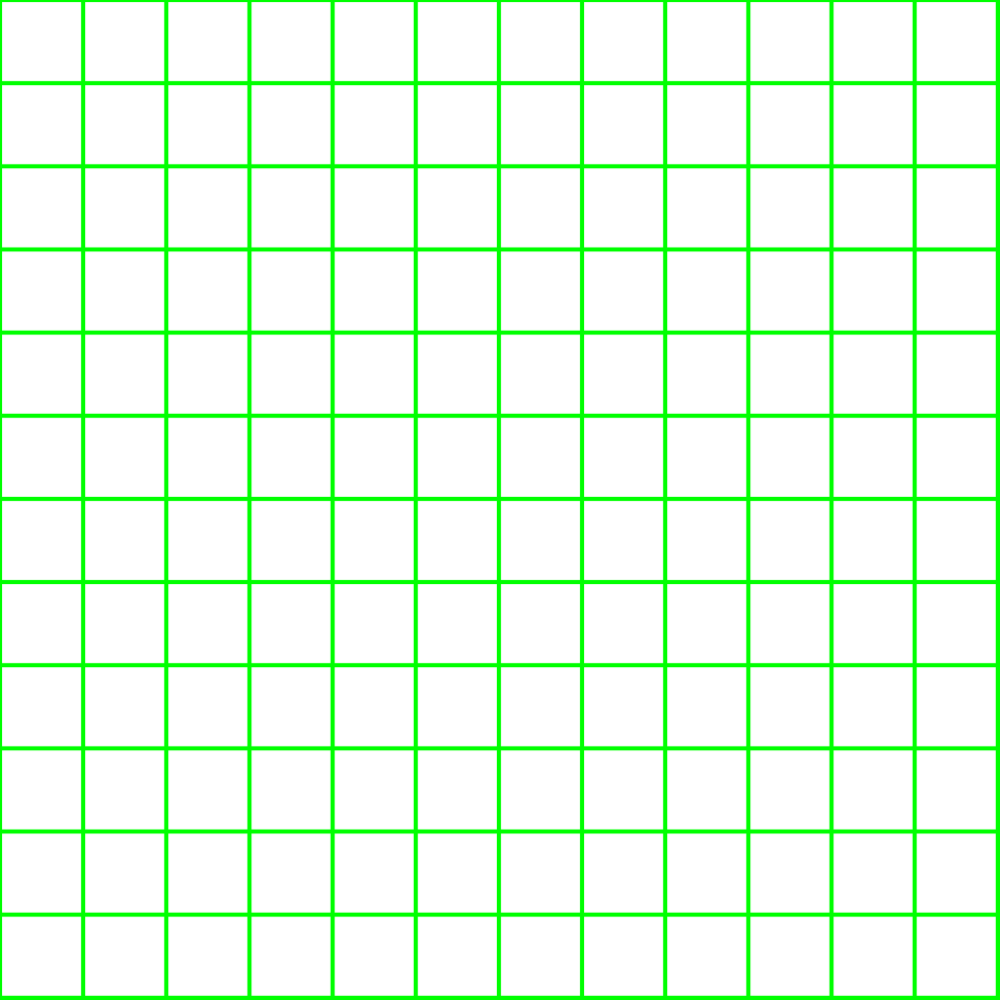
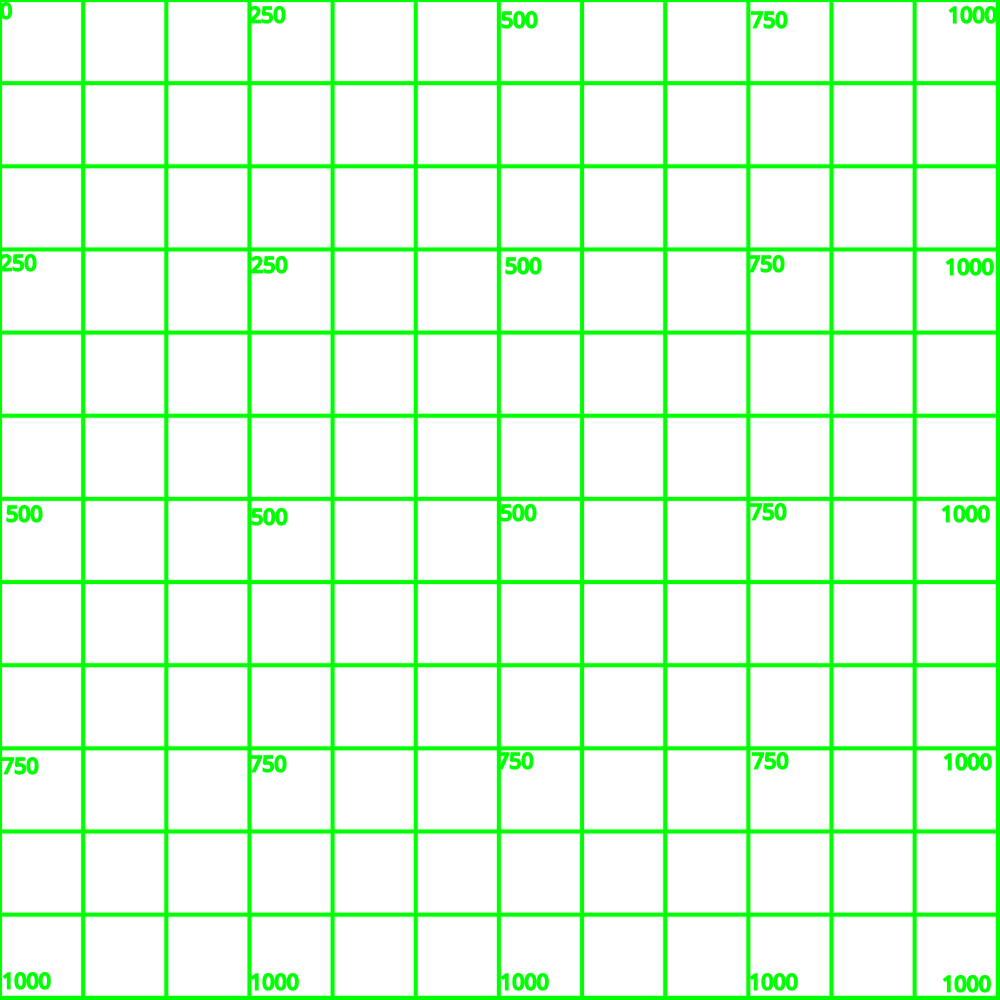
updates

diff --git a/public/dragechon/level-2.html b/public/dragechon/level-2.html
@@ -33,17 +33,14 @@
       import Player from './lib/Player.js';
       import Pig from './lib/Pig.js';
 
-      const WORLD_WIDTH = 1000;
-      const WORLD_HEIGHT = 1000;
-
       Main();
       function Main()
       {
         var config = 
         {
           type: Phaser.AUTO,
-          width: WORLD_WIDTH,
-          height: WORLD_HEIGHT,
+          width: 1000, //window.innerWidth*3,
+          height: 1000, //window.innerHeight*3,
           physics: 
           {
             default: 'arcade',
@@ -51,15 +48,14 @@
           },
           scene: 
           {
-            preload: Scene_Preload,
+            preload: On_Scene_Preload,
             create: Scene_Create,
             update: Scene_Update
           },
           scale:
           {
             mode: Phaser.Scale.ENVELOP,
-            autoCenter: Phaser.Scale.CENTER_BOTH,
-            //zoom: 1
+            autoCenter: Phaser.Scale.CENTER_BOTH
           }
         };
 
@@ -78,19 +74,16 @@
 
       // scene ================================================================
 
-      function Scene_Preload()
+      function On_Scene_Preload ()
       {
-        this.load.image('mountain', 'assets/mountain.png');
         this.load.image('bk', 'assets/grid.png');
         this.load.image('ground', 'assets/platform.png');
         this.load.image('star', 'assets/pig.png');
         this.load.image('bomb', 'assets/bomb.png');
-
-        const sprite_spec = { frameWidth: 290, frameHeight: 258 };
-        this.load.spritesheet('player', 'assets/dragon/flying.png', sprite_spec);
+        this.load.spritesheet('player', 'assets/dragon/flying.png', { frameWidth: 290, frameHeight: 258 });
       }
       
-      function Scene_Create()
+      function Scene_Create ()
       {
         this.game.ctx = 
         {
@@ -114,9 +107,6 @@
         this.game.ctx.background.setScrollFactor(1);
         //this.game.ctx.background.setDepth(0);
 
-        this.physics.world.setBounds
-          (0, 0, this.game.config.width, this.game.config.height);
-
         this.game.ctx.scoreText = this.add.text(16, 16, 'score: 0', { fontSize: '32px', fill: '#000' });
 
         //this.game.ctx.bombs = this.physics.add.group();
@@ -125,12 +115,10 @@
         this.game.ctx.player = Player.New(this);
 
         var camera = this.cameras.main;
-        //camera.useBounds = false;
-        camera.startFollow(this.game.ctx.player);
-        //camera.setSize(1000, 1000);
         //camera.setSize(window.innerWidth, window.innerHeight);
         //camera.setViewport(0, 0, window.innerWidth, window.innerHeight);
-        camera.setZoom(1);
+        //camera.setZoom(2);
+        camera.startFollow(this.game.ctx.player);
 
         // input
         this.game.ctx.cursors = this.input.keyboard.createCursorKeys();
@@ -140,11 +128,14 @@
         }
       }
 
-      function Scene_Update(time, delta)
+      function Scene_Update (time, delta)
       {
         if (!this.game.ctx.gameOver)
         {
-          Pig.Update_Group(this, delta);
+          for (const pig of this.game.ctx.pigs.getChildren())
+          {
+            pig.Update(this, delta);
+          }
           this.game.ctx.player.Update(this, delta);
 
           // Camera_Update

diff --git a/public/dragechon/lib/Player.js b/public/dragechon/lib/Player.js
@@ -53,7 +53,7 @@ class Player
     const direction = this.rotation - Math.PI / 2;
     scene.physics.velocityFromRotation(direction, speed, this.body.velocity);
 
-    scene.physics.world.wrap(this, 0);
+    scene.physics.world.wrap(this, scene.game.config.width / 2);
   }
 
   static Overlap_Pig (scene, player, pig)

diff --git a/public/dragechon/lib/Pig.js b/public/dragechon/lib/Pig.js
@@ -71,6 +71,14 @@ class Pig
     }
   }
 
+  static Update_Group(scene, delta)
+  {
+    for (const pig of scene.game.ctx.pigs.getChildren())
+    {
+      pig.Update(scene, delta);
+    }
+  }
+
   static Get_Stars_In_Radius(center_pig, radius, pigs)
   {
     const nearbyStars = [];
